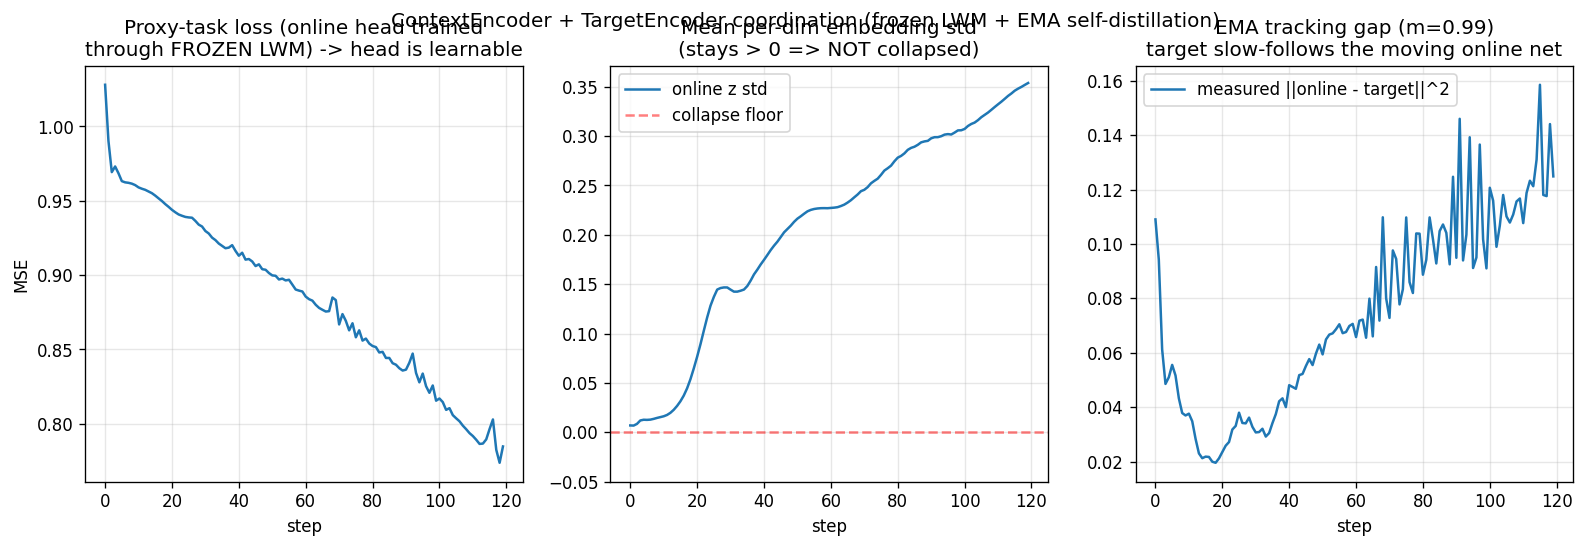
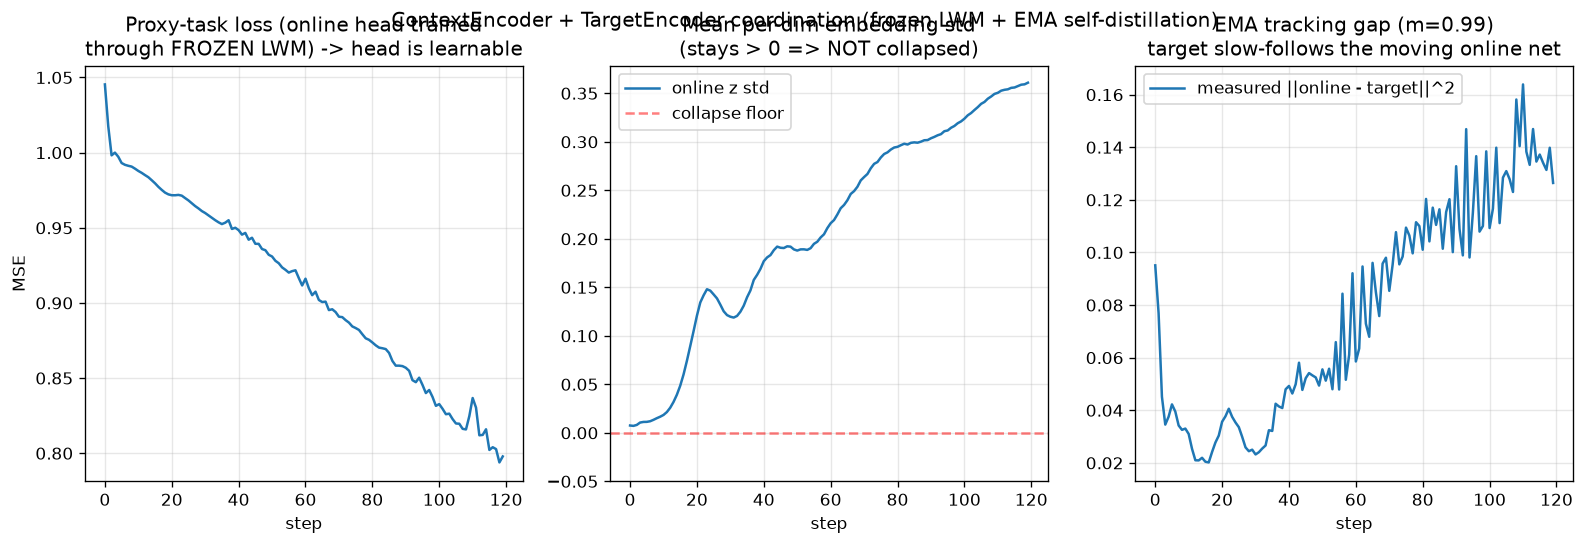
[major] Validated first two modules on GPU

diff --git a/scripts/gpu-validate-encoders.py b/scripts/gpu-validate-encoders.py
@@ -1,0 +1,98 @@
+from __future__ import annotations
+
+import sys
+from pathlib import Path
+
+import torch
+
+sys.path.insert(0, str(Path(__file__).resolve().parents[1]))
+
+from implementation.config import SSWMConfig
+from implementation.context_encoder import ContextEncoder
+from implementation.target_encoder import TargetEncoder
+
+assert torch.cuda.is_available(), "CUDA not available"
+DEV = "cuda"
+torch.manual_seed(0)
+
+
+def banner(s):
+    print("\n" + "=" * 70 + f"\n{s}\n" + "=" * 70)
+
+
+def cfg(**kw):
+    base = dict(n_subcarriers=32, n_antennas=32, seq_len=8, horizon_k=4,
+                embed_dim=256, backbone="lwm", use_pretrained=True, ema_momentum=0.99)
+    base.update(kw)
+    return SSWMConfig(**base)
+
+
+def obs(c, b=16):
+    return torch.randn(b, c.seq_len, 2, c.n_subcarriers, c.n_antennas, device=DEV)
+
+
+banner("ENV")
+print("torch", torch.__version__, "| device", torch.cuda.get_device_name(0), "| count", torch.cuda.device_count())
+
+banner("1. ContextEncoder forward on GPU")
+c = cfg()
+ctx = ContextEncoder(c).to(DEV)
+print("backbone pretrained:", ctx.backbone.is_pretrained)
+o = obs(c)
+x = ctx(o)
+assert x.shape == (16, c.seq_len, c.embed_dim) and x.is_cuda
+print(f"o {tuple(o.shape)} -> x {tuple(x.shape)} on {x.device}")
+
+banner("2. Backward through frozen LWM on GPU (grads reach head, not backbone)")
+ctx.zero_grad()
+ctx(o).pow(2).mean().backward()
+head_grad = any(p.grad is not None for p in ctx.head.parameters())
+bb_grad = any(p.grad is not None for m in ctx.backbone.frozen_modules() for p in m.parameters())
+print("head has grad:", head_grad, "| frozen backbone has grad:", bb_grad)
+assert head_grad and not bb_grad
+
+banner("3. TargetEncoder on GPU: forward detached + EMA update")
+tgt = TargetEncoder(ctx, c).to(DEV)
+z = tgt(o)
+assert z.shape == x.shape and z.is_cuda and not z.requires_grad
+print(f"z~ {tuple(z.shape)} on {z.device} | requires_grad={z.requires_grad}")
+before = next(iter(tgt.encoder.head.parameters())).clone()
+with torch.no_grad():
+    next(iter(ctx.head.parameters())).add_(1.0)
+tgt.ema_update(ctx)
+after = next(iter(tgt.encoder.head.parameters()))
+print("EMA moved target head param:", not torch.allclose(before, after))
+assert not torch.allclose(before, after)
+
+banner("4. Full JEPA coordination loop on GPU (no collapse)")
+c2 = cfg()
+ctx2 = ContextEncoder(c2).to(DEV).train()
+tgt2 = TargetEncoder(ctx2, c2).to(DEV)
+proxy = torch.randn(16, c2.seq_len, c2.embed_dim, device=DEV)
+o2 = obs(c2)
+opt = torch.optim.Adam(ctx2.trainable_parameters(), lr=5e-3)
+first = last = None
+for step in range(60):
+    loss = (ctx2(o2) - proxy).pow(2).mean()
+    opt.zero_grad(); loss.backward(); opt.step()
+    tgt2.ema_update(ctx2)
+    if step == 0: first = loss.item()
+    last = loss.item()
+with torch.no_grad():
+    std = ctx2(o2).reshape(-1, c2.embed_dim).std(0).mean().item()
+print(f"loss {first:.4f} -> {last:.4f} (down: {last < first}) | embedding std {std:.4f} (>0: no collapse)")
+assert last < first and std > 1e-3
+
+banner("5. Multi-GPU device placement sanity (8x A100)")
+for g in range(torch.cuda.device_count()):
+    d = f"cuda:{g}"
+    e = ContextEncoder(cfg(seq_len=2, horizon_k=1)).to(d)
+    oo = torch.randn(2, 2, 2, 32, 32, device=d)
+    xx = e(oo)
+    assert str(xx.device) == d
+    print(f"  {d}: OK {tuple(xx.shape)}")
+    del e, oo, xx
+    torch.cuda.empty_cache()
+
+banner("ALL GPU CHECKS PASSED")
+print(f"peak mem cuda:0 = {torch.cuda.max_memory_allocated(0)/1e9:.2f} GB")

diff --git a/implementation/target_encoder/verify_coordination.py b/implementation/target_encoder/verify_coordination.py
@@ -21,16 +21,18 @@ OUT.mkdir(exist_ok=True)
 
 
 def main():
+    dev = "cuda" if torch.cuda.is_available() else "cpu"
     cfg = SSWMConfig(n_subcarriers=32, n_antennas=32, seq_len=4, horizon_k=2,
                      embed_dim=256, backbone="lwm", use_pretrained=True,
                      ema_momentum=0.99)
-    ctx = ContextEncoder(cfg)
-    tgt = TargetEncoder(ctx, cfg)
+    ctx = ContextEncoder(cfg).to(dev)
+    tgt = TargetEncoder(ctx, cfg).to(dev)
     ctx.train()
 
     print("=" * 68)
     print("Context <-> Target coordination (JEPA self-distillation)")
     print("=" * 68)
+    print(f"device                      : {dev}")
     print(f"backbone pretrained         : {ctx.backbone.is_pretrained}")
     print(f"online trainable params     : {sum(p.numel() for p in ctx.trainable_parameters()):,}")
     print(f"target trainable params     : {sum(p.numel() for p in tgt.parameters() if p.requires_grad):,} (must be 0)")
@@ -38,8 +40,8 @@ def main():
     print(f"ema momentum                : {cfg.ema_momentum}")
 
     torch.manual_seed(0)
-    o = torch.randn(16, cfg.seq_len, 2, 32, 32)
-    proxy = torch.randn(16, cfg.seq_len, cfg.embed_dim)
+    o = torch.randn(16, cfg.seq_len, 2, 32, 32, device=dev)
+    proxy = torch.randn(16, cfg.seq_len, cfg.embed_dim, device=dev)
     opt = torch.optim.Adam(ctx.trainable_parameters(), lr=5e-3)
 
     losses, online_var, ema_gap = [], [], []